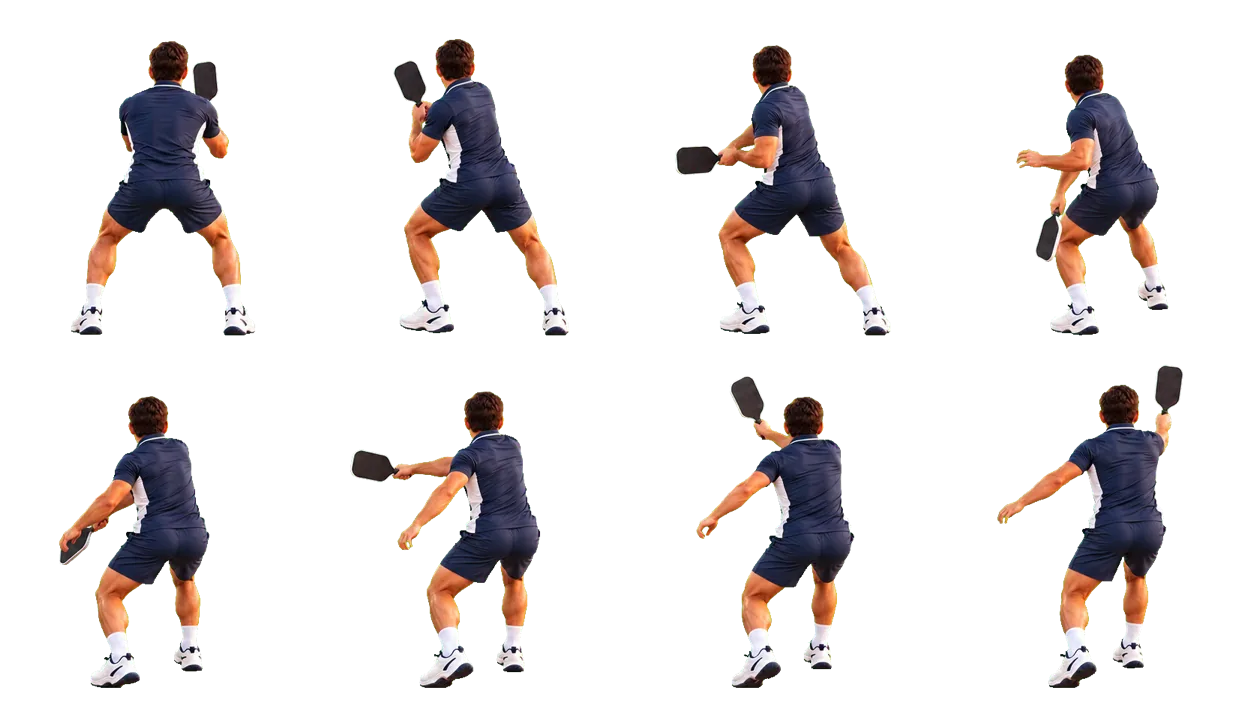
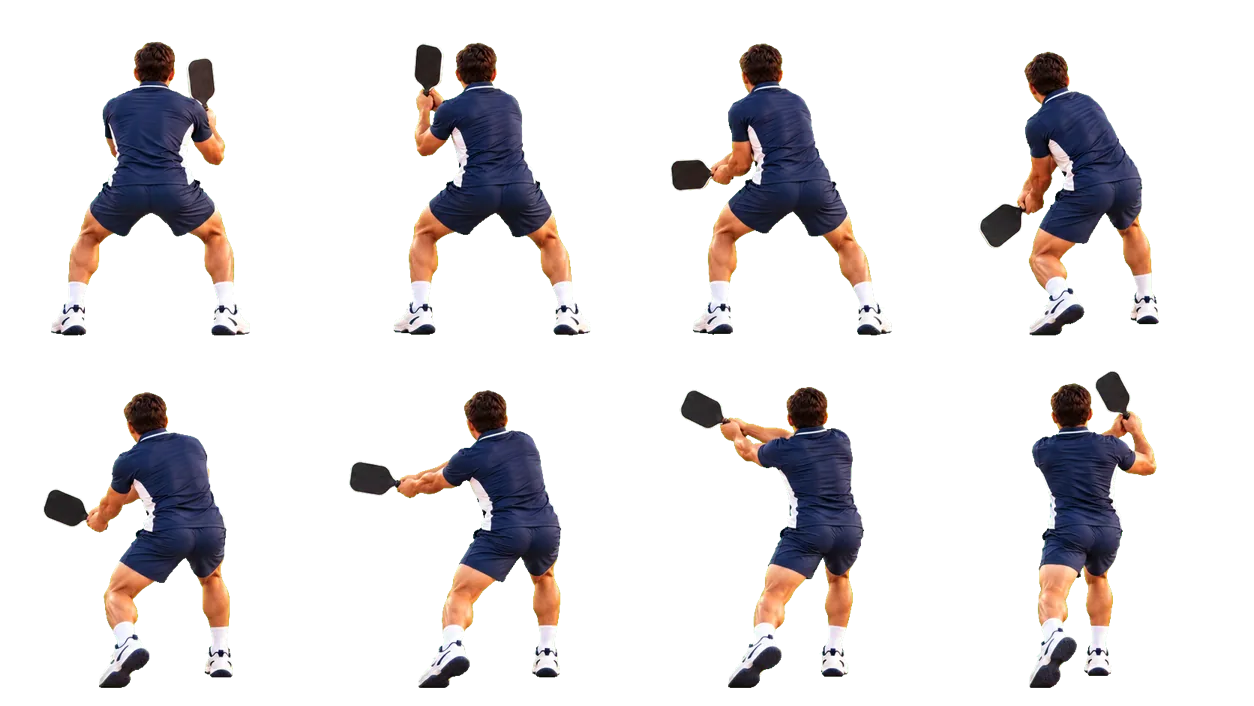
Staging receiver from c7e8b0b4: Pickleball: the near backhand redrawn as a two-handed drive (receiver 76)
Source: https://github.com/mayankpahadia1993/slipspark/commit/c7e8b0b45cb3c4ac1e2fa6e9c33feed5b883e1e0

diff --git a/staging/index.html b/staging/index.html
@@ -7,7 +7,7 @@
   <link rel="preconnect" href="https://fonts.googleapis.com">
   <link rel="preconnect" href="https://fonts.gstatic.com" crossorigin>
   <link rel="stylesheet" href="https://fonts.googleapis.com/css2?family=Inter:wght@500;600;700;800;900&family=Nunito:wght@600;700;800;900&display=swap">
-  <link rel="stylesheet" href="receiver.css?v=75">
+  <link rel="stylesheet" href="receiver.css?v=76">
   <script src="https://www.gstatic.com/cast/sdk/libs/caf_receiver/v3/cast_receiver_framework.js"></script>
 </head>
 <body>
@@ -321,17 +321,17 @@
     </div>
   </section>
   <!-- ?v= keeps a Chromecast from mixing cached files of two receiver versions. -->
-  <script src="receiver-core.js?v=75"></script>
-  <script src="receiver-card-core.js?v=75"></script>
-  <script src="receiver-video.js?v=75"></script>
-  <script src="receiver-scene-core.js?v=75"></script>
-  <script src="receiver-scene.js?v=75"></script>
-  <script src="receiver-welcome.js?v=75"></script>
-  <script src="receiver-celebration.js?v=75"></script>
-  <script src="receiver-music.js?v=75"></script>
-  <script src="receiver-pickleball-core.js?v=75"></script>
-  <script src="receiver-pickleball.js?v=75"></script>
-  <script src="receiver-shared.js?v=75"></script>
-  <script src="receiver.js?v=75"></script>
+  <script src="receiver-core.js?v=76"></script>
+  <script src="receiver-card-core.js?v=76"></script>
+  <script src="receiver-video.js?v=76"></script>
+  <script src="receiver-scene-core.js?v=76"></script>
+  <script src="receiver-scene.js?v=76"></script>
+  <script src="receiver-welcome.js?v=76"></script>
+  <script src="receiver-celebration.js?v=76"></script>
+  <script src="receiver-music.js?v=76"></script>
+  <script src="receiver-pickleball-core.js?v=76"></script>
+  <script src="receiver-pickleball.js?v=76"></script>
+  <script src="receiver-shared.js?v=76"></script>
+  <script src="receiver.js?v=76"></script>
 </body>
 </html>

diff --git a/staging/receiver-pickleball.js b/staging/receiver-pickleball.js
@@ -11,7 +11,7 @@
   // f {s, o, h?, k?}.  TV -> phone: ready {pickleball, version, looks}, pong {i, r}, loaded {look, ms, missing},
   // stats {fps, gap, frames, drawMs, queue, stale, delay, late, missing}, error {where, message}.
   const NAMESPACE = "urn:x-cast:com.slipspark.pickleball";
-  const RECEIVER_VERSION = 75;
+  const RECEIVER_VERSION = 76;
   const core = window.RallycadePickleballCore;
   const sceneCore = window.RallycadeSceneCore;
 
